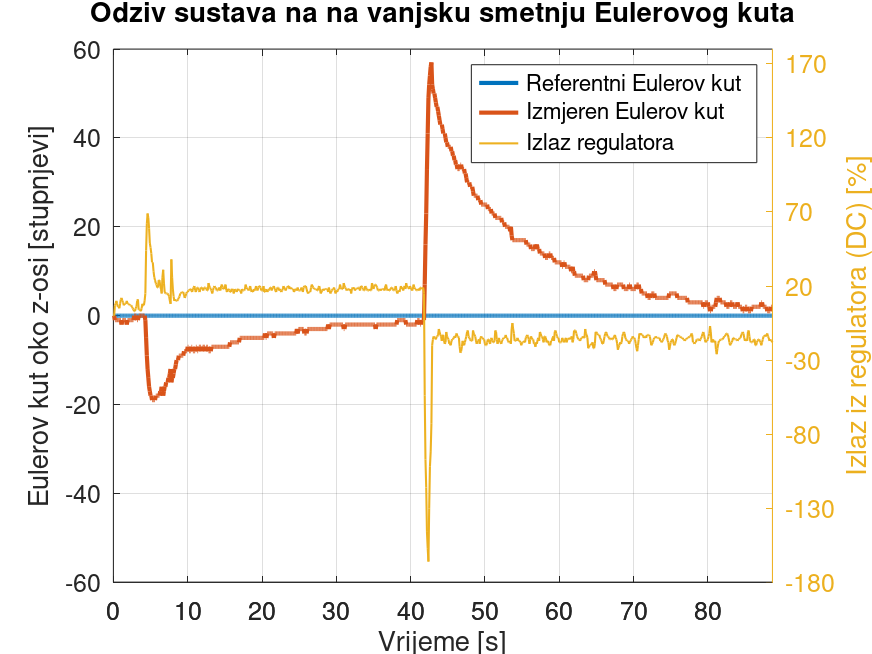
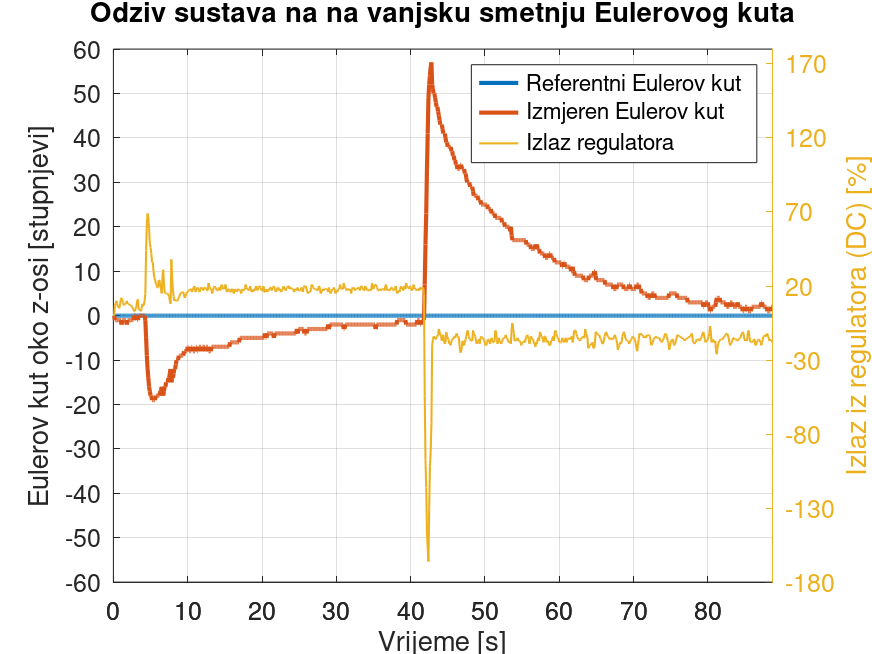
fix ranges

diff --git a/other/plot_meas_angle_reg_user.m b/other/plot_meas_angle_reg_user.m
@@ -22,9 +22,9 @@ font_size_title = 15;
 font_size = 12;
 time_step_size = 10;
 y1_lim = [-180 180];
-y2_lim = [-1800 1800];
+y2_lim = [-2000 2000];
 y1_step_size = 20;
-y2_step_size = 250;
+y2_step_size = 500;
 
 hf = figure();
 [hax, h1, h2] = plotyy(t, a, t, cntrl);

diff --git a/other/plot_meas_angle_reg_dist.m b/other/plot_meas_angle_reg_dist.m
@@ -23,7 +23,7 @@ font_size = 12;
 time_step_size = 10;
 y1_lim = [-60 60];
 y2_lim = [-180 180];
-y1_step_size = 20;
+y1_step_size = 10;
 y2_step_size = 50;
 
 hf = figure();
